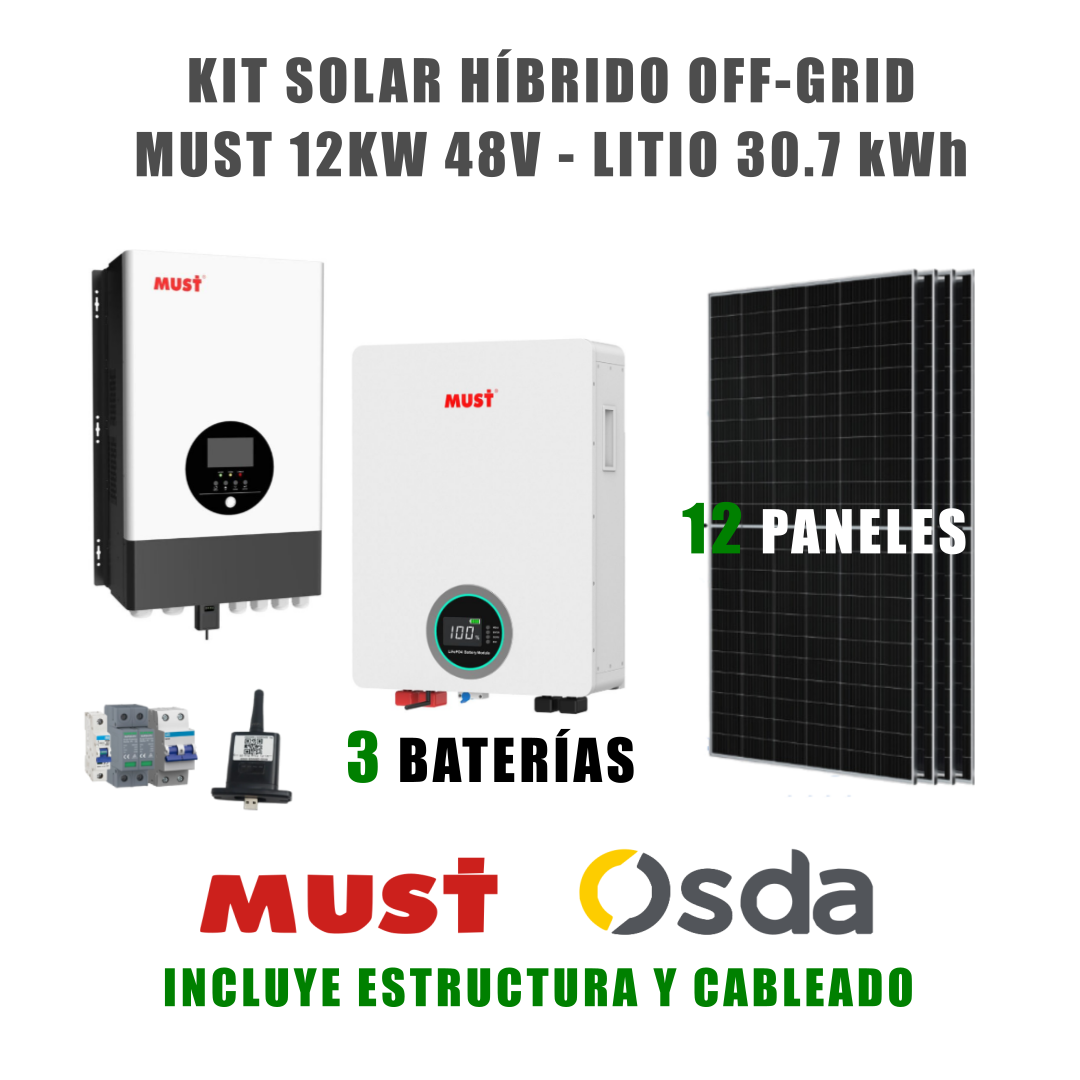
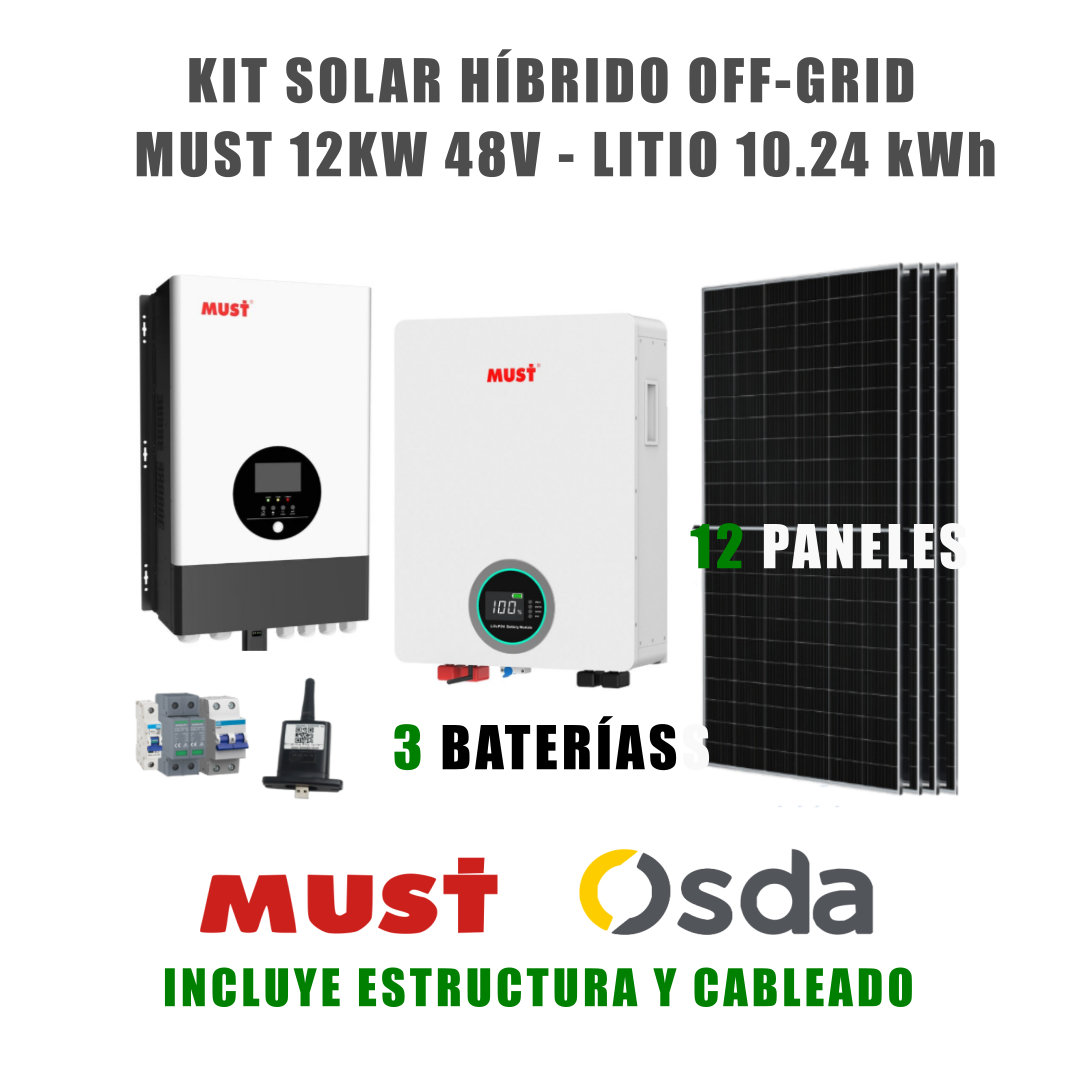
updated kit solar 3

Changed region(s): [[0.0611, 0.2139, 0.9167, 0.7639], [0.6722, 0.1222, 0.9472, 0.1833], [0.3972, 0.3361, 0.5194, 0.3972]]

diff --git a/data/products.ts b/data/products.ts
@@ -247,8 +247,8 @@ export const products: Product[] = [
     id: "3",
     name: "🔆 KIT SOLAR HÍBRIDO OFF-GRID 12 kW",
     sku: "ESC012-12KW",
-    price: 36900000,
-    priceFormatted: "$36.900.000",
+    price: 26900000,
+    priceFormatted: "$26.900.000",
     image: "/images/kitSolar3.png",
     specifications: {
       "Potencia nominal del inversor": "12 kW",
@@ -260,11 +260,11 @@ export const products: Product[] = [
       "Configuración del campo FV": "3 strings de 4 paneles de 698 Wp (4S3P)",
       MPPT: "2 MPPT independientes (hasta 200 A total)",
       "Tipo de batería": "Litio LiFePO₄",
-      "Energía nominal del banco de baterías": "30.7 kWh (3 × 10.24 kWh)",
-      "Energía utilizable del banco de baterías (80% DoD)": "24.6 kWh",
+      "Energía nominal del banco de baterías": "20.48 kWh (2 × 10.24 kWh)",
+      "Energía utilizable del banco de baterías (80% DoD)": "16.4 kWh",
       "Tensión del sistema de batería": "51.2 V",
-      "Capacidad total del banco de baterías": "600 Ah",
-      "Corriente máxima de carga MPPT": "200 A",
+      "Capacidad total del banco de baterías": "200 Ah",
+      "Corriente máxima de carga MPPT": "100 A",
       "Comunicación batería-inversor": "CAN / RS485",
       "Monitoreo y configuración remota": "Sí, desde App Móvil",
       "Eficiencia del inversor (modo AC)": ">95%",
